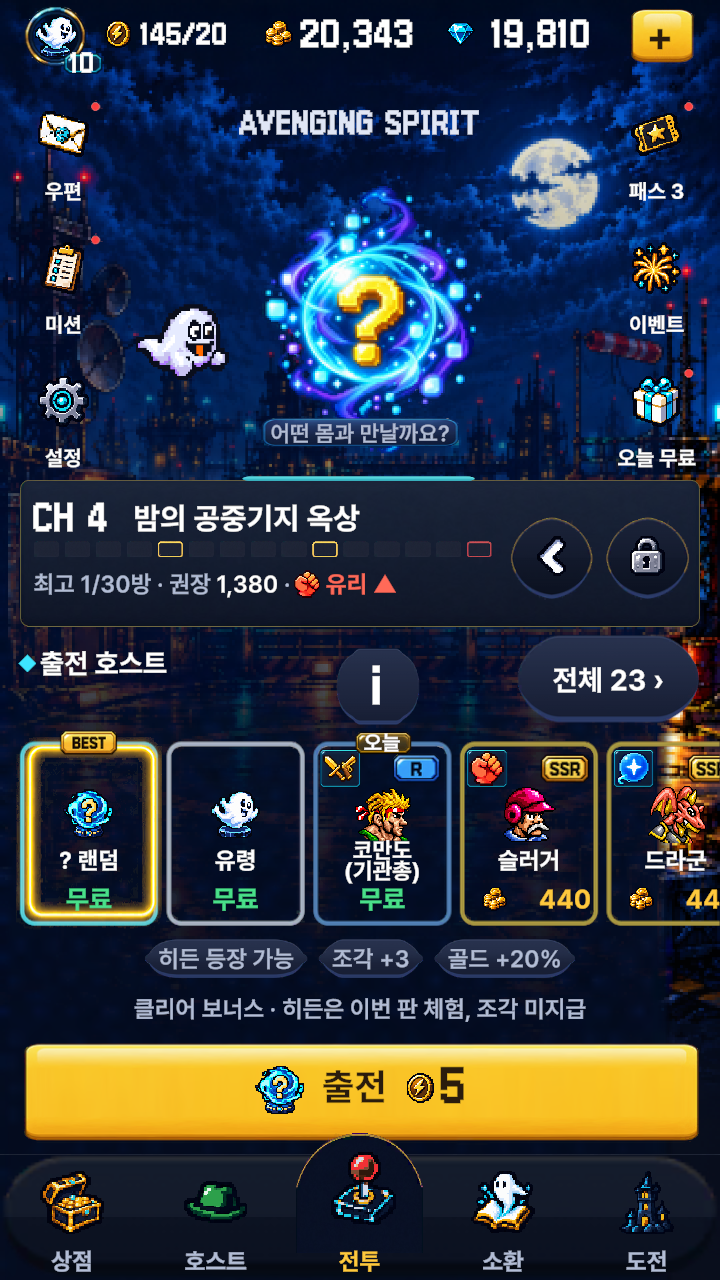
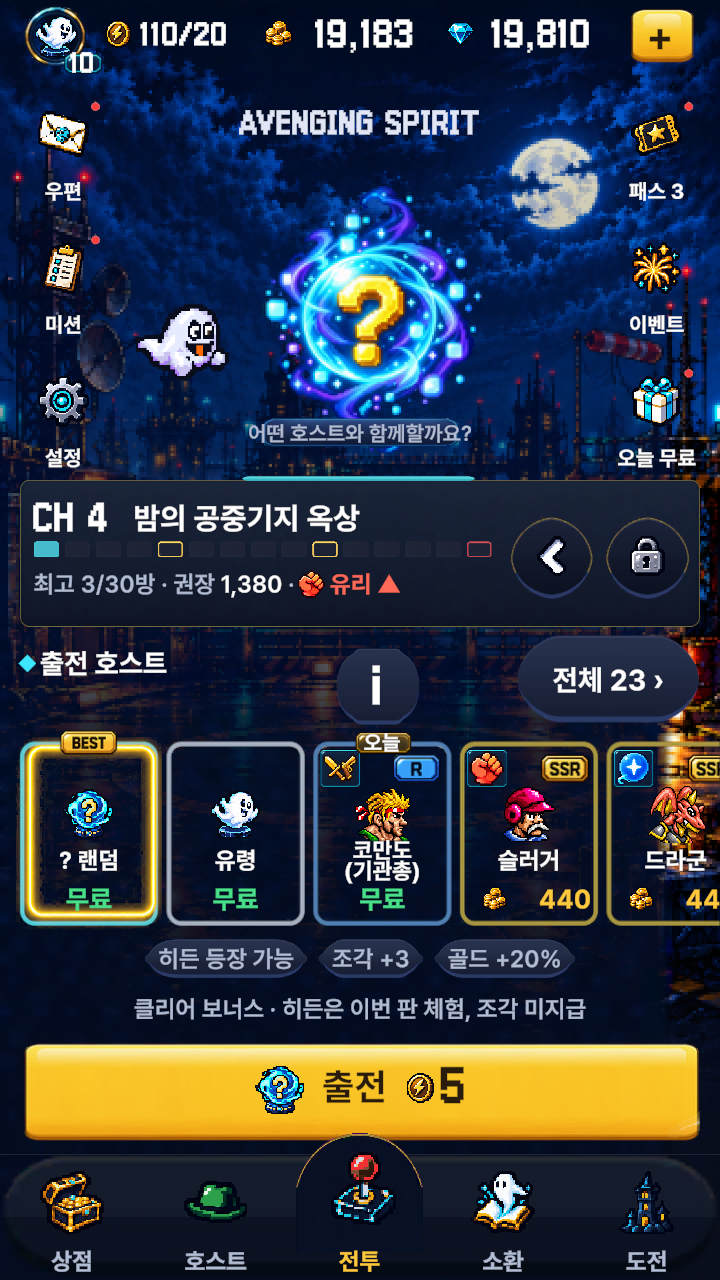
AVSR 라이브처럼 잠금 — 모든 호스트 열기 · 권장 힘 시험 끔(코드 기본값도 꺼짐) · 잠긴 챕터로는 화살표로 못 넘어가고 「챕터 N 클리어 시 열려요」 안내 (PD 2026-10-28)

diff --git a/Assets/Scripts/Module/Lobby/RbLobbyUI.cs b/Assets/Scripts/Module/Lobby/RbLobbyUI.cs
@@ -300,6 +300,13 @@ namespace Game.Module.Lobby
         {
             int next = Mathf.Clamp(_chapter + d, 1, Mathf.Max(1, _player.ChapterCount));
             if (next == _chapter) return;
+            // 잠긴 챕터로는 넘어가지 않는다(PD 2026-10-28 「챕터 잠겨 있을 때는 옆으로 지나가기 눌러도 안 되게」) — 무엇을 깨야 열리는지만 알린다
+            if (next > _player.UnlockedChapter)
+            {
+                GameSound.Cue("ui.tap");
+                SystemPopup.Show(Localize.Format("ui.chapter.locked_hint", next - 1), null, Localize.Get("ui.common.ok"), null);
+                return;
+            }
             _chapter = next;
             GameSound.Cue("ui.tap");
             RefreshChapter();
@@ -324,7 +331,7 @@ namespace Game.Module.Lobby
             bool cleared = _chapter < _player.UnlockedChapter || _chapter <= _player.ClearedChapter;
             RefreshGauge(cleared ? rooms : ChapterOpen ? Mathf.Clamp(_player.ReachedStage, 0, rooms) : 0, rooms);
             SetActiveButton("ChapterPrev", _chapter > 1);
-            // 다음 챕터가 잠겼으면 자물쇠(시안) — 누르면 넘어가지만 출전은 막힌다
+            // 다음 챕터가 잠겼으면 자물쇠(시안) — 누르면 넘어가지 않고 「챕터 N 클리어하면 열림」 안내(StepChapter)
             var nextIcon = _ui.Get<Image>("ChapterNextIcon");
             if (nextIcon != null) nextIcon.sprite = _chapter + 1 > _player.UnlockedChapter ? _iconLock : _iconNext;
             SetActiveButton("ChapterNext", _chapter < _player.ChapterCount);

diff --git a/Assets/Scripts/Character/GameConfig.cs b/Assets/Scripts/Character/GameConfig.cs
@@ -183,7 +183,7 @@ namespace Game.Character
         // 모든 몸을 숙련도 최대로 연다(PD 2026-10-08 「잠그라고 하기 전까지 다 열어 둬 — 빌드 테스트에도 필요」).
         // 테스트 모드와 따로 둔다 — 이것만 켜면 입장료 · 젬 · 상자는 라이브 그대로다. 저장은 안 건드린다(끄면 원래대로).
         [Tooltip("켜면 모든 호스트를 숙련도 최대로 연다(스킬 · 패시브 전부). 저장은 안 바뀐다. 출시 빌드에서는 끈다.")]
-        [SerializeField] private bool _openAllHosts = true;
+        [SerializeField] private bool _openAllHosts;   // PD 2026-10-28 「라이브 서비스하듯이 다 잠가」 — 기본은 꺼짐
 
         // 권장 힘 시험(PD 2026-10-27 「궁수의 전설보다 쉽다」 — 모든 몸 열기로는 설계보다 2~2.5배 센 몸이라 난이도를 잴 수 없었다).
         // 켜면 모든 몸이 고른 챕터의 권장 전투력으로 싸운다 — 숙련도 = 그 챕터 권장 성급 × 2, 강화 0, 체력 · 공격을 한 배율로 맞춘다.
